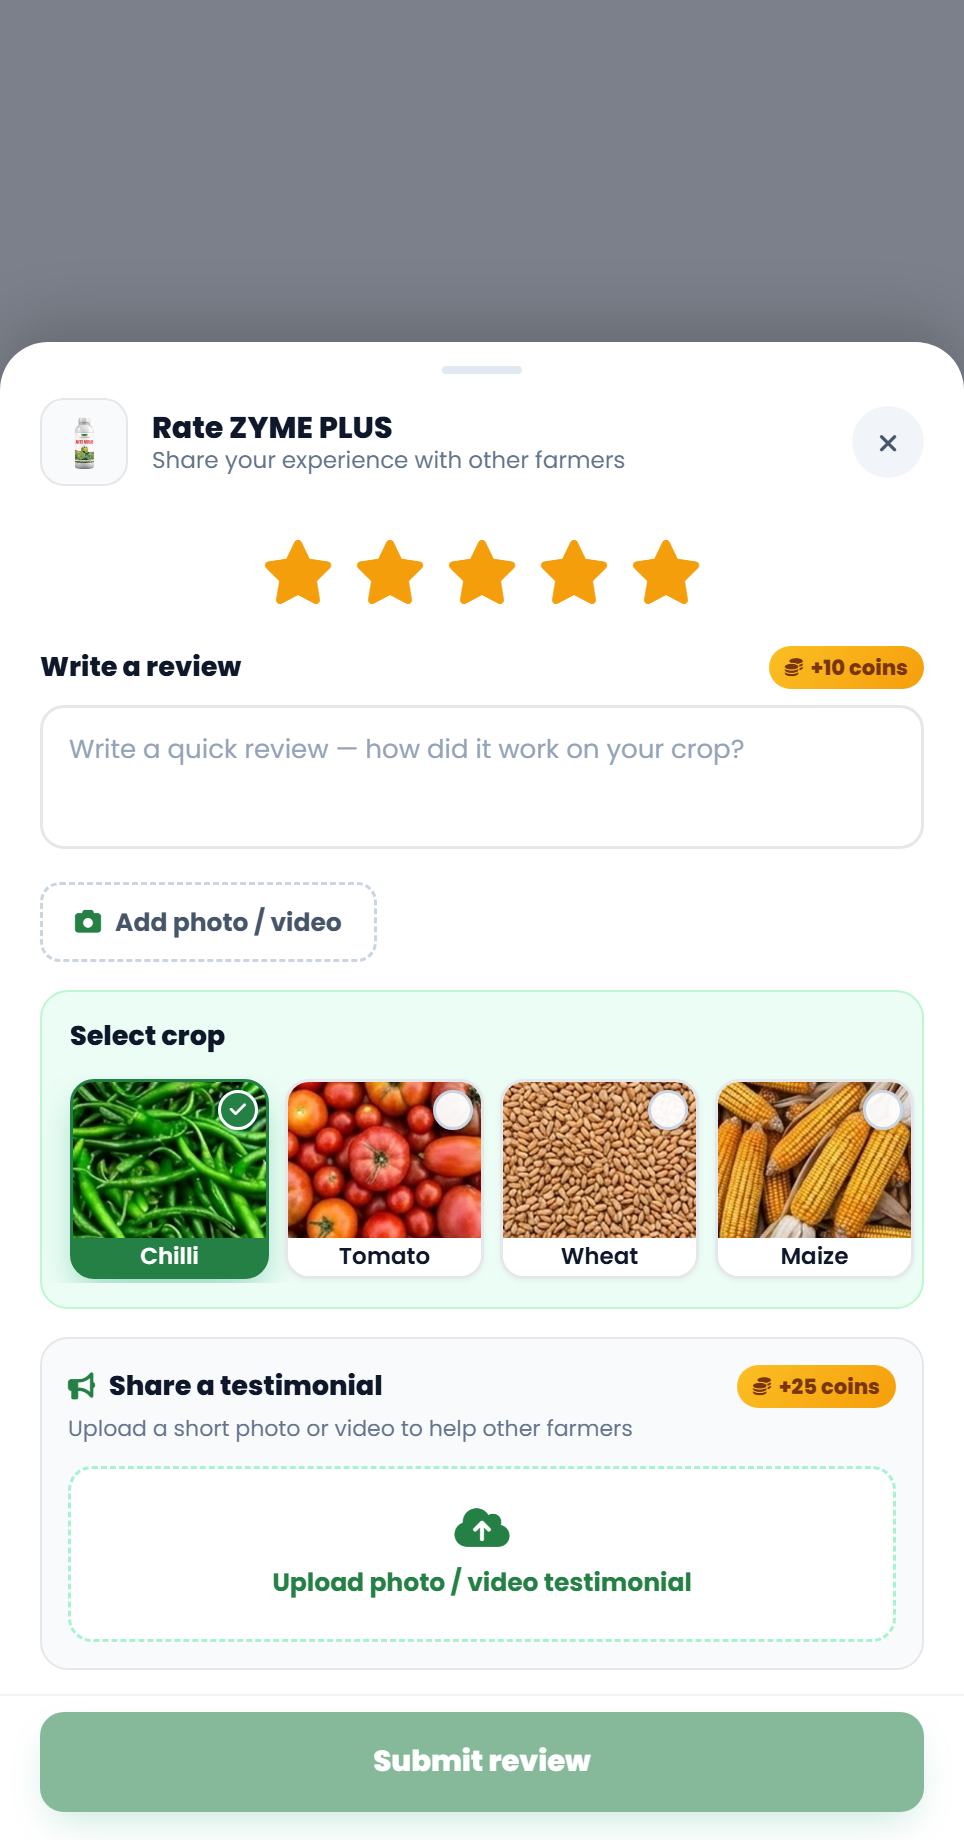
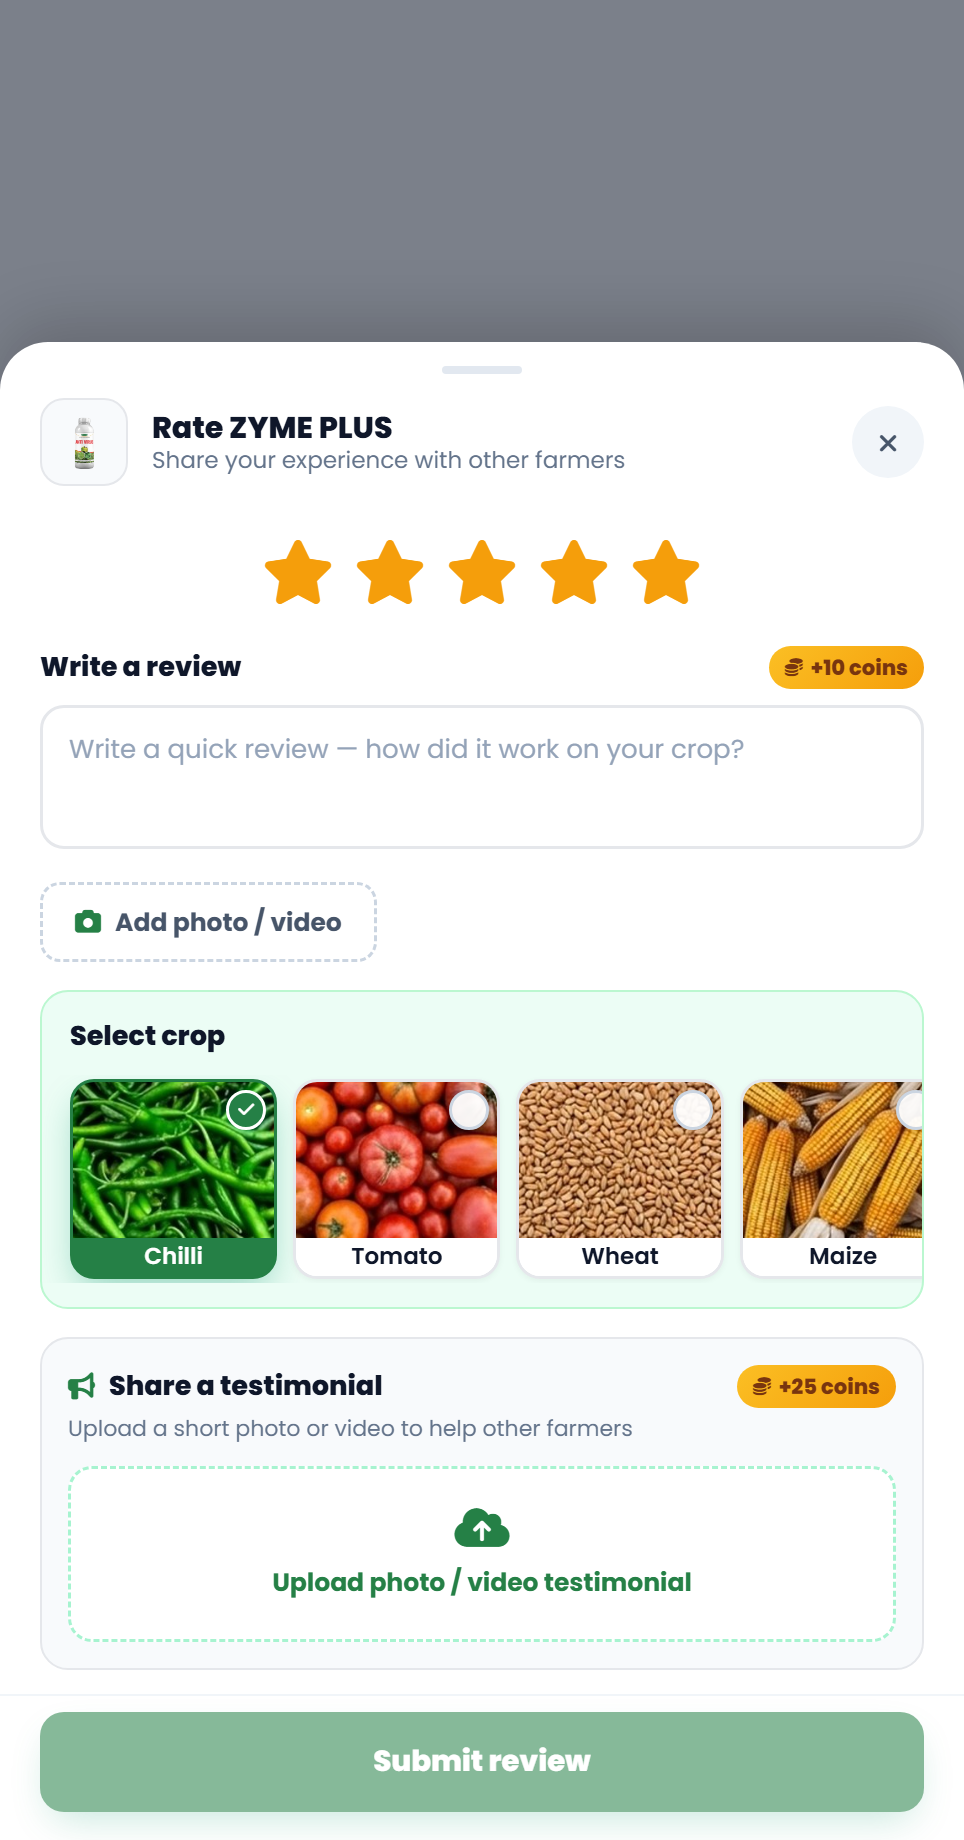
onboarding: hero no longer defaults to a product image; language picker reorder
- Mobile-number hero: the default hero image was pre-filled from the old product line-up (Humic), which
  is wrong — the hero is the WHOLE banner image. Default is now empty (shows 'No hero image yet') and any
  legacy product-image default is cleared on load, so admins upload the real banner.
- Language select: added reorder flexibility — drag (⠿) or ↑ ↓ buttons, with a position number. This is
  the order languages show in the app picker. Enable/disable toggle kept.

Changed region(s): [[0.0622, 0.5886, 0.9647, 0.7125]]

diff --git a/admin/onboarding-manager.html b/admin/onboarding-manager.html
@@ -147,10 +147,12 @@ if(!O.splashCustom.imgByLocale) O.splashCustom.imgByLocale={};
 if(!Array.isArray(O.splashCustom.trigger.states) || O.splashCustom.trigger.states.indexOf('All')>=0) O.splashCustom.trigger.states=STATES.slice();
 // Phone screen hero: a SINGLE hero image (not separate product components) with optional
 // per-language variants. Migrate from the older 3-image array if present.
-if(!O.phone.hero) O.phone.hero = { img:(O.phone.heroImages&&O.phone.heroImages[0])||'', imgByLocale:{}, states:STATES.slice(), stateImg:'' };
+if(!O.phone.hero) O.phone.hero = { img:'', imgByLocale:{}, states:STATES.slice(), stateImg:'' };
 if(!O.phone.hero.imgByLocale) O.phone.hero.imgByLocale={};
 if(!Array.isArray(O.phone.hero.states)) O.phone.hero.states=STATES.slice();
 if(O.phone.hero.stateImg===undefined) O.phone.hero.stateImg='';
+// the hero is the WHOLE banner image, not a product shot — clear any legacy product-image default
+if(Array.isArray(O.phone.heroImages) && O.phone.hero.img && O.phone.heroImages.indexOf(O.phone.hero.img)>=0) O.phone.hero.img='';
 // OTP resend channels — enable/disable toggles (copy lives in Translations)
 if(O.otp.resendWhatsapp===undefined) O.otp.resendWhatsapp=true;
 if(O.otp.resendSms===undefined) O.otp.resendSms=true;
@@ -268,19 +270,25 @@ const EDITORS = {
       splashCustomCard();
   },
   language(){
+    const n=O.languages.length;
     const tiles = O.languages.map((L,i)=>`
-      <div class="li" style="align-items:center">
+      <div class="li" style="align-items:center" draggable="true"
+        ondragstart="langDragStart(event,${i})" ondragover="langDragOver(event)" ondrop="langDrop(event,${i})" ondragend="langDragEnd(event)">
+        <span class="drag-h" title="Drag to reorder">⠿</span>
+        <span style="font-size:11px;font-weight:700;color:var(--g400);min-width:18px;text-align:center">${i+1}</span>
         <div class="li-body">
           <div style="font-size:13.5px;font-weight:700">${esc(L.native||'—')}
             <span class="hint" style="font-weight:500;margin-left:4px">${esc(L.name||'')}${L.code?' · '+esc(L.code):''}</span></div>
         </div>
-        <div class="li-act" style="align-items:center">
+        <div class="li-act" style="align-items:center;gap:6px">
+          <button class="btn btn-s btn-ic" title="Move up" onclick="langMove(${i},-1)" ${i===0?'disabled style="opacity:.35"':''}><i class="fa-solid fa-arrow-up"></i></button>
+          <button class="btn btn-s btn-ic" title="Move down" onclick="langMove(${i},1)" ${i===n-1?'disabled style="opacity:.35"':''}><i class="fa-solid fa-arrow-down"></i></button>
           <div class="tg ${L.on?'on':''}" title="${L.on?'Shown in the picker':'Hidden from the picker'}" onclick="setPath('languages.${i}.on',${!L.on});commit('Language '+(${!L.on}?'enabled':'disabled'));rerender()"></div>
         </div>
       </div>`).join('');
     return head(meta('language')) +
-      card(`Languages in the picker · ${O.languages.length}`,
-        `<p class="hint" style="margin:0 0 12px">The only action here is to <b>enable or disable</b> a language in the picker. Language names and all screen copy are managed in <b>Translations</b>.</p>`+
+      card(`Languages in the picker · ${n}`,
+        `<p class="hint" style="margin:0 0 12px">Drag (⠿) or use ↑ ↓ to <b>reorder</b> — this is the order languages appear in the app picker. Toggle to <b>enable / disable</b>. Names &amp; copy are managed in <b>Translations</b>.</p>`+
         tiles
       );
   },
@@ -347,6 +355,14 @@ const EDITORS = {
 function meta(k){ return SECTIONS.find(s=>s.key===k); }
 
 /* ---------- list mutations ---------- */
+/* ---------- language picker reorder (order = app picker order) ---------- */
+function langMove(i,d){ const a=O.languages, j=i+d; if(j<0||j>=a.length) return; [a[i],a[j]]=[a[j],a[i]]; commit('Language order updated'); rerender(); }
+let langDragI=null;
+function langDragStart(e,i){ langDragI=i; e.dataTransfer.effectAllowed='move'; }
+function langDragOver(e){ e.preventDefault(); }
+function langDrop(e,i){ e.preventDefault(); if(langDragI==null||langDragI===i) return; const a=O.languages; const [m]=a.splice(langDragI,1); a.splice(i,0,m); langDragI=null; commit('Language order updated'); rerender(); }
+function langDragEnd(e){ langDragI=null; }
+
 function addFact(){ O.otp.facts.push({ icon:'circle-info', text:{ en:'New message' }, on:true }); commit('Message added'); rerender(); }
 
 /* ---------- Welcome: name on/off, shown linked to the greeting headline ---------- */

diff --git a/screens/_dbg.html b/screens/_dbg.html
@@ -1,0 +1,21 @@
+<!DOCTYPE html><html><head><meta charset="utf-8"><meta name="viewport" content="width=device-width,initial-scale=1">
+<script src="https://cdn.tailwindcss.com"></script>
+<link rel="stylesheet" href="https://cdnjs.cloudflare.com/ajax/libs/font-awesome/6.5.1/css/all.min.css">
+<link href="https://fonts.googleapis.com/css2?family=Poppins:wght@400;500;600;700;800;900&display=swap" rel="stylesheet">
+</head><body style="background:#fff">
+<div id="out" style="position:fixed;top:0;left:0;z-index:99999;background:#000;color:#0f0;font:12px monospace;padding:6px;white-space:pre;max-width:100%"></div>
+<script src="../assets/celebrate.js"></script><script src="../assets/rate.js"></script>
+<script>window.addEventListener('load',function(){setTimeout(function(){
+ window.kkdRate({name:'ZYME PLUS',img:'../assets/AntiVirus_nobg.png',rating:5});
+ setTimeout(function(){
+   var vw=document.documentElement.clientWidth, sw=document.documentElement.scrollWidth;
+   var lines=['vw='+vw+' scrollWidth='+sw];
+   if(sw>vw){
+     document.querySelectorAll('*').forEach(function(el){
+       var r=el.getBoundingClientRect();
+       if(r.right>vw+1){ lines.push((el.className||el.tagName)+' right='+Math.round(r.right)+' w='+Math.round(r.width)); }
+     });
+   }
+   document.getElementById('out').textContent=lines.slice(0,18).join('\n');
+ },400);
+},300);});</script></body></html>

diff --git a/assets/rate.js b/assets/rate.js
@@ -42,11 +42,11 @@
     /* Home "Shop by Crop" inline tile picker (replaces the old select-crop trigger) */
     '.kr-sbc{margin-top:14px;background:#ECFDF5;border:1px solid #BBF7D0;border-radius:14px;padding:12px 0}' +
     '.kr-sbc-h{font-size:13.5px;font-weight:800;color:#0F172A;padding:0 14px 9px}' +
-    '.kr-sbc-scroll{}' +
-    '.kr-crop-picker{display:flex;gap:8px;padding:2px 14px;overflow-x:auto;-webkit-overflow-scrolling:touch}' +
-    '.kr-crop-picker::-webkit-scrollbar{display:none}' +
-    /* tile width = ~3.9 visible per viewport so the 4th is ~10% cut at ANY screen width (stays narrow on phones) */
-    '.kr-crop-picker > button{flex:0 0 calc((100% - 24px) / 3.9)}';
+    '.kr-sbc-scroll{overflow-x:auto;-webkit-overflow-scrolling:touch}' +
+    '.kr-sbc-scroll::-webkit-scrollbar{display:none}' +
+    '.kr-crop-picker{display:flex;gap:8px;padding:2px 14px;min-width:max-content}' +
+    /* tile width tracks the viewport so ~3.9 show (4th ~10% cut) — stays narrow on phones, wider on large screens */
+    '.kr-crop-picker > button{flex:0 0 auto;width:calc((100vw - 78px) / 3.9)}';
 
   var MARKUP = '' +
     '<div class="kr-backdrop" style="position:absolute;inset:0;background:rgba(15,23,42,0.55);opacity:0;transition:opacity .25s ease"></div>' +
@@ -183,14 +183,14 @@
         var tick = sel
           ? '<span class="absolute top-1 right-1 w-5 h-5 rounded-full flex items-center justify-center" style="background:#258046;box-shadow:0 2px 6px rgba(5,150,105,0.5);border:1.5px solid #fff;z-index:2"><i class="fa-solid fa-check text-white text-[9px]"></i></span>'
           : '<span class="absolute top-1 right-1 w-5 h-5 rounded-full" style="background:rgba(255,255,255,0.95);border:1.5px solid #CBD5E1;box-shadow:0 1px 3px rgba(15,23,42,0.18);z-index:2"></span>';
-        return '<button type="button" data-crop-key="' + key + '" class="flex-shrink-0 rounded-xl overflow-hidden transition-all" style="background:' + tileBg + ';border:1.5px solid ' + borderColor + ';box-shadow:' + shadow + ';width:104px;height:100px;display:flex;flex-direction:column">'
+        return '<button type="button" data-crop-key="' + key + '" class="flex-shrink-0 rounded-xl overflow-hidden transition-all" style="background:' + tileBg + ';border:1.5px solid ' + borderColor + ';box-shadow:' + shadow + ';height:100px;display:flex;flex-direction:column">'
           + '<div class="relative w-full" style="height:78px;background:' + m.bg + ';overflow:hidden;flex-shrink:0">'
           + '<img src="' + m.img + '" class="w-full h-full object-cover" style="display:block" onerror="cropFallback(this,\'' + m.emoji + '\',34)"/>'
           + tick + '</div>'
           + '<div class="flex-1 flex items-center justify-center px-1" style="background:' + tileBg + '"><span class="text-[11.5px] font-semibold leading-none whitespace-nowrap" style="color:' + labelColor + '">' + m.label + '</span></div>'
           + '</button>';
       }).join('');
-      var moreChip = '<button type="button" data-crop-more class="flex-shrink-0 rounded-xl overflow-hidden transition-all" style="background:#FFFFFF;border:1.5px solid #E5E7EB;width:104px;height:100px;display:flex;flex-direction:column;box-shadow:0 1px 3px rgba(0,0,0,0.05)">'
+      var moreChip = '<button type="button" data-crop-more class="flex-shrink-0 rounded-xl overflow-hidden transition-all" style="background:#FFFFFF;border:1.5px solid #E5E7EB;height:100px;display:flex;flex-direction:column;box-shadow:0 1px 3px rgba(0,0,0,0.05)">'
         + '<div class="w-full flex items-center justify-center" style="height:78px;background:#ECFDF5;flex-shrink:0"><div class="rounded-full flex items-center justify-center" style="width:40px;height:40px;background:#258046;box-shadow:0 4px 10px -2px rgba(5,150,105,0.45)"><i class="fa-solid fa-plus text-[16px]" style="color:#FFFFFF"></i></div></div>'
         + '<div class="flex-1 flex items-center justify-center px-1" style="background:#FFFFFF"><span class="text-[11.5px] font-semibold leading-none whitespace-nowrap" style="color:#0F172A">All crops</span></div>'
         + '</button>';

diff --git a/screens/home.html b/screens/home.html
@@ -3933,11 +3933,11 @@
     /* Inline "Shop by Crop" tile strip · replaces the old Select-crop button+chips inside every [data-crop-pick] */
     .cp-sbc{background:#ECFDF5;border:1px solid #BBF7D0;border-radius:12px;padding:10px 0;margin-top:6px}
     .cp-sbc-h{font-size:12.5px;font-weight:800;color:#0F172A;padding:0 12px 8px}
-    .cp-sbc-scroll{}
-    .cp-picker{display:flex;gap:8px;padding:2px 12px;overflow-x:auto;-webkit-overflow-scrolling:touch}
-    .cp-picker::-webkit-scrollbar{display:none}
-    /* tile width = ~3.9 visible per viewport so the 4th is ~10% cut at any screen width */
-    .cp-picker > button{flex:0 0 calc((100% - 24px) / 3.9)}
+    .cp-sbc-scroll{overflow-x:auto;-webkit-overflow-scrolling:touch}
+    .cp-sbc-scroll::-webkit-scrollbar{display:none}
+    .cp-picker{display:flex;gap:8px;padding:2px 12px;min-width:max-content}
+    /* tile width tracks the viewport so ~3.9 show (4th ~10% cut) — stays narrow on phones */
+    .cp-picker > button{flex:0 0 auto;width:calc((100vw - 74px) / 3.9)}
     .cropp-bd{position:fixed;inset:0;background:rgba(15,23,42,.55);opacity:0;pointer-events:none;transition:opacity .25s ease;z-index:160}
     .cropp-bd.open{opacity:1;pointer-events:auto}
     .cropp-sheet{position:fixed;left:0;right:0;bottom:0;background:#fff;border-radius:24px 24px 0 0;box-shadow:0 -8px 32px rgba(0,0,0,.18);transform:translateY(100%);transition:transform .3s cubic-bezier(.32,.72,0,1);z-index:161;max-height:82vh;display:flex;flex-direction:column}
@@ -4026,7 +4026,7 @@
       const tick = sel
         ? '<span class="absolute top-1 right-1 w-5 h-5 rounded-full flex items-center justify-center" style="background:#258046;box-shadow:0 2px 6px rgba(5,150,105,0.5);border:1.5px solid #fff;z-index:2"><i class="fa-solid fa-check text-white text-[9px]"></i></span>'
         : '<span class="absolute top-1 right-1 w-5 h-5 rounded-full" style="background:rgba(255,255,255,0.95);border:1.5px solid #CBD5E1;box-shadow:0 1px 3px rgba(15,23,42,0.18);z-index:2"></span>';
-      return '<button type="button" data-crop-key="' + key + '" class="flex-shrink-0 rounded-xl overflow-hidden transition-all" style="background:' + tileBg + ';border:1.5px solid ' + borderColor + ';box-shadow:' + shadow + ';width:104px;height:100px;display:flex;flex-direction:column">'
+      return '<button type="button" data-crop-key="' + key + '" class="flex-shrink-0 rounded-xl overflow-hidden transition-all" style="background:' + tileBg + ';border:1.5px solid ' + borderColor + ';box-shadow:' + shadow + ';height:100px;display:flex;flex-direction:column">'
         + '<div class="relative w-full" style="height:78px;background:' + m.bg + ';overflow:hidden;flex-shrink:0">'
         + '<img src="' + m.img + '" class="w-full h-full object-cover" style="display:block" onerror="cropFallback(this,\'' + m.emoji + '\',34)"/>'
         + tick + '</div>'
@@ -4037,7 +4037,7 @@
       const sel = selectionOf(pick);
       const allKeys = Object.keys(META).slice().sort(function (a, b) { return (sel.has(b) ? 1 : 0) - (sel.has(a) ? 1 : 0); });
       const chips = allKeys.slice(0, INLINE_COUNT).map(function (k) { return pickTile(k, sel.has(k)); }).join('');
-      const more = '<button type="button" data-crop-more class="flex-shrink-0 rounded-xl overflow-hidden transition-all" style="background:#FFFFFF;border:1.5px solid #E5E7EB;width:104px;height:100px;display:flex;flex-direction:column;box-shadow:0 1px 3px rgba(0,0,0,0.05)">'
+      const more = '<button type="button" data-crop-more class="flex-shrink-0 rounded-xl overflow-hidden transition-all" style="background:#FFFFFF;border:1.5px solid #E5E7EB;height:100px;display:flex;flex-direction:column;box-shadow:0 1px 3px rgba(0,0,0,0.05)">'
         + '<div class="w-full flex items-center justify-center" style="height:78px;background:#ECFDF5;flex-shrink:0"><div class="rounded-full flex items-center justify-center" style="width:40px;height:40px;background:#258046;box-shadow:0 4px 10px -2px rgba(5,150,105,0.45)"><i class="fa-solid fa-plus text-[16px]" style="color:#FFFFFF"></i></div></div>'
         + '<div class="flex-1 flex items-center justify-center px-1" style="background:#FFFFFF"><span class="text-[11.5px] font-semibold leading-none whitespace-nowrap" style="color:#0F172A">All crops</span></div>'
         + '</button>';

diff --git a/screens/orders.html b/screens/orders.html
@@ -572,11 +572,11 @@
     /* Inline "Shop by Crop" tile strip · replaces the old Select-crop button+chips inside every [data-crop-pick] */
     .cp-sbc{background:#ECFDF5;border:1px solid #BBF7D0;border-radius:12px;padding:10px 0;margin-top:6px}
     .cp-sbc-h{font-size:12.5px;font-weight:800;color:#0F172A;padding:0 12px 8px}
-    .cp-sbc-scroll{}
-    .cp-picker{display:flex;gap:8px;padding:2px 12px;overflow-x:auto;-webkit-overflow-scrolling:touch}
-    .cp-picker::-webkit-scrollbar{display:none}
-    /* tile width = ~3.9 visible per viewport so the 4th is ~10% cut at any screen width */
-    .cp-picker > button{flex:0 0 calc((100% - 24px) / 3.9)}
+    .cp-sbc-scroll{overflow-x:auto;-webkit-overflow-scrolling:touch}
+    .cp-sbc-scroll::-webkit-scrollbar{display:none}
+    .cp-picker{display:flex;gap:8px;padding:2px 12px;min-width:max-content}
+    /* tile width tracks the viewport so ~3.9 show (4th ~10% cut) — stays narrow on phones */
+    .cp-picker > button{flex:0 0 auto;width:calc((100vw - 74px) / 3.9)}
     .cropp-bd{position:fixed;inset:0;background:rgba(15,23,42,.55);opacity:0;pointer-events:none;transition:opacity .25s ease;z-index:150}
     .cropp-bd.open{opacity:1;pointer-events:auto}
     .cropp-sheet{position:fixed;left:0;right:0;bottom:0;background:#fff;border-radius:24px 24px 0 0;box-shadow:0 -8px 32px rgba(0,0,0,.18);transform:translateY(100%);transition:transform .3s cubic-bezier(.32,.72,0,1);z-index:151;max-height:82vh;display:flex;flex-direction:column}
@@ -665,7 +665,7 @@
       const tick = sel
         ? '<span class="absolute top-1 right-1 w-5 h-5 rounded-full flex items-center justify-center" style="background:#258046;box-shadow:0 2px 6px rgba(5,150,105,0.5);border:1.5px solid #fff;z-index:2"><i class="fa-solid fa-check text-white text-[9px]"></i></span>'
         : '<span class="absolute top-1 right-1 w-5 h-5 rounded-full" style="background:rgba(255,255,255,0.95);border:1.5px solid #CBD5E1;box-shadow:0 1px 3px rgba(15,23,42,0.18);z-index:2"></span>';
-      return '<button type="button" data-crop-key="' + key + '" class="flex-shrink-0 rounded-xl overflow-hidden transition-all" style="background:' + tileBg + ';border:1.5px solid ' + borderColor + ';box-shadow:' + shadow + ';width:104px;height:100px;display:flex;flex-direction:column">'
+      return '<button type="button" data-crop-key="' + key + '" class="flex-shrink-0 rounded-xl overflow-hidden transition-all" style="background:' + tileBg + ';border:1.5px solid ' + borderColor + ';box-shadow:' + shadow + ';height:100px;display:flex;flex-direction:column">'
         + '<div class="relative w-full" style="height:78px;background:' + m.bg + ';overflow:hidden;flex-shrink:0">'
         + '<img src="' + m.img + '" class="w-full h-full object-cover" style="display:block" onerror="cropFallback(this,\'' + m.emoji + '\',34)"/>'
         + tick + '</div>'
@@ -676,7 +676,7 @@
       const sel = selectionOf(pick);
       const allKeys = Object.keys(META).slice().sort(function (a, b) { return (sel.has(b) ? 1 : 0) - (sel.has(a) ? 1 : 0); });
       const chips = allKeys.slice(0, INLINE_COUNT).map(function (k) { return pickTile(k, sel.has(k)); }).join('');
-      const more = '<button type="button" data-crop-more class="flex-shrink-0 rounded-xl overflow-hidden transition-all" style="background:#FFFFFF;border:1.5px solid #E5E7EB;width:104px;height:100px;display:flex;flex-direction:column;box-shadow:0 1px 3px rgba(0,0,0,0.05)">'
+      const more = '<button type="button" data-crop-more class="flex-shrink-0 rounded-xl overflow-hidden transition-all" style="background:#FFFFFF;border:1.5px solid #E5E7EB;height:100px;display:flex;flex-direction:column;box-shadow:0 1px 3px rgba(0,0,0,0.05)">'
         + '<div class="w-full flex items-center justify-center" style="height:78px;background:#ECFDF5;flex-shrink:0"><div class="rounded-full flex items-center justify-center" style="width:40px;height:40px;background:#258046;box-shadow:0 4px 10px -2px rgba(5,150,105,0.45)"><i class="fa-solid fa-plus text-[16px]" style="color:#FFFFFF"></i></div></div>'
         + '<div class="flex-1 flex items-center justify-center px-1" style="background:#FFFFFF"><span class="text-[11.5px] font-semibold leading-none whitespace-nowrap" style="color:#0F172A">All crops</span></div>'
         + '</button>';

diff --git a/screens/_wrap.html b/screens/_wrap.html
@@ -1,0 +1,4 @@
+<!DOCTYPE html><html><head><meta charset="utf-8"></head>
+<body style="margin:0;background:#777;display:flex;justify-content:center">
+<iframe src="_vr.html" style="width:390px;height:844px;border:0;background:#fff"></iframe>
+</body></html>